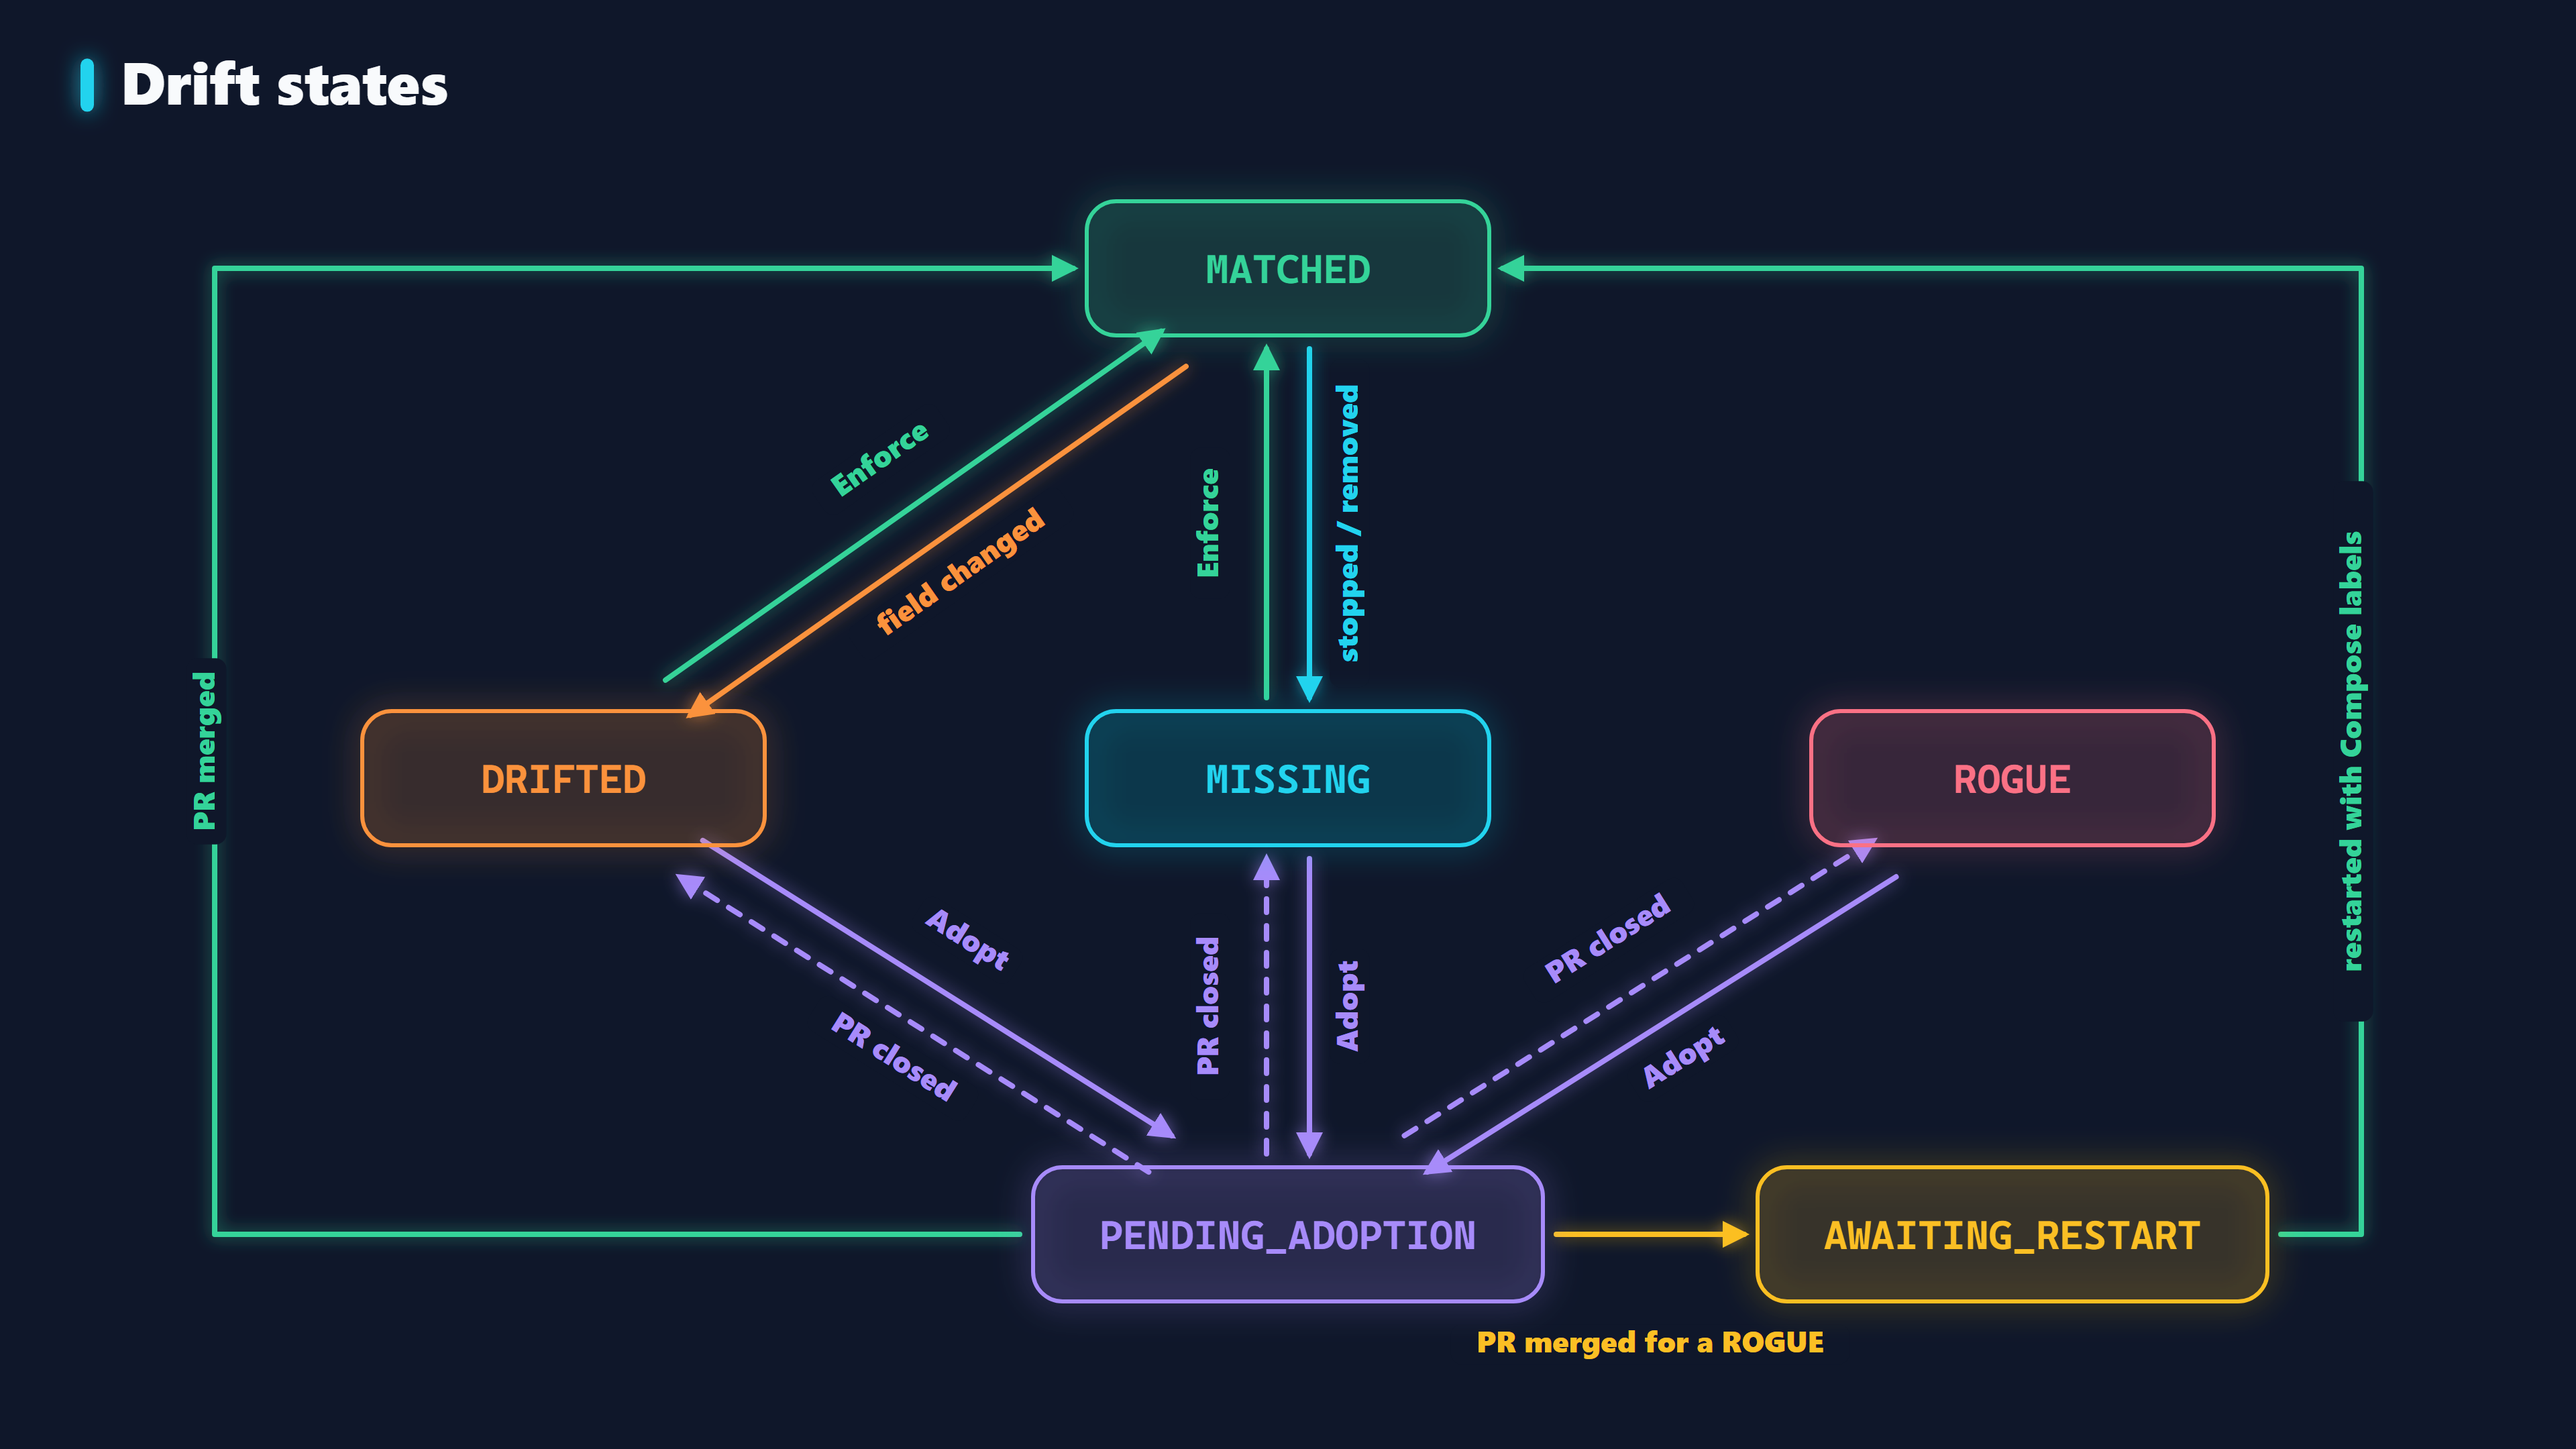
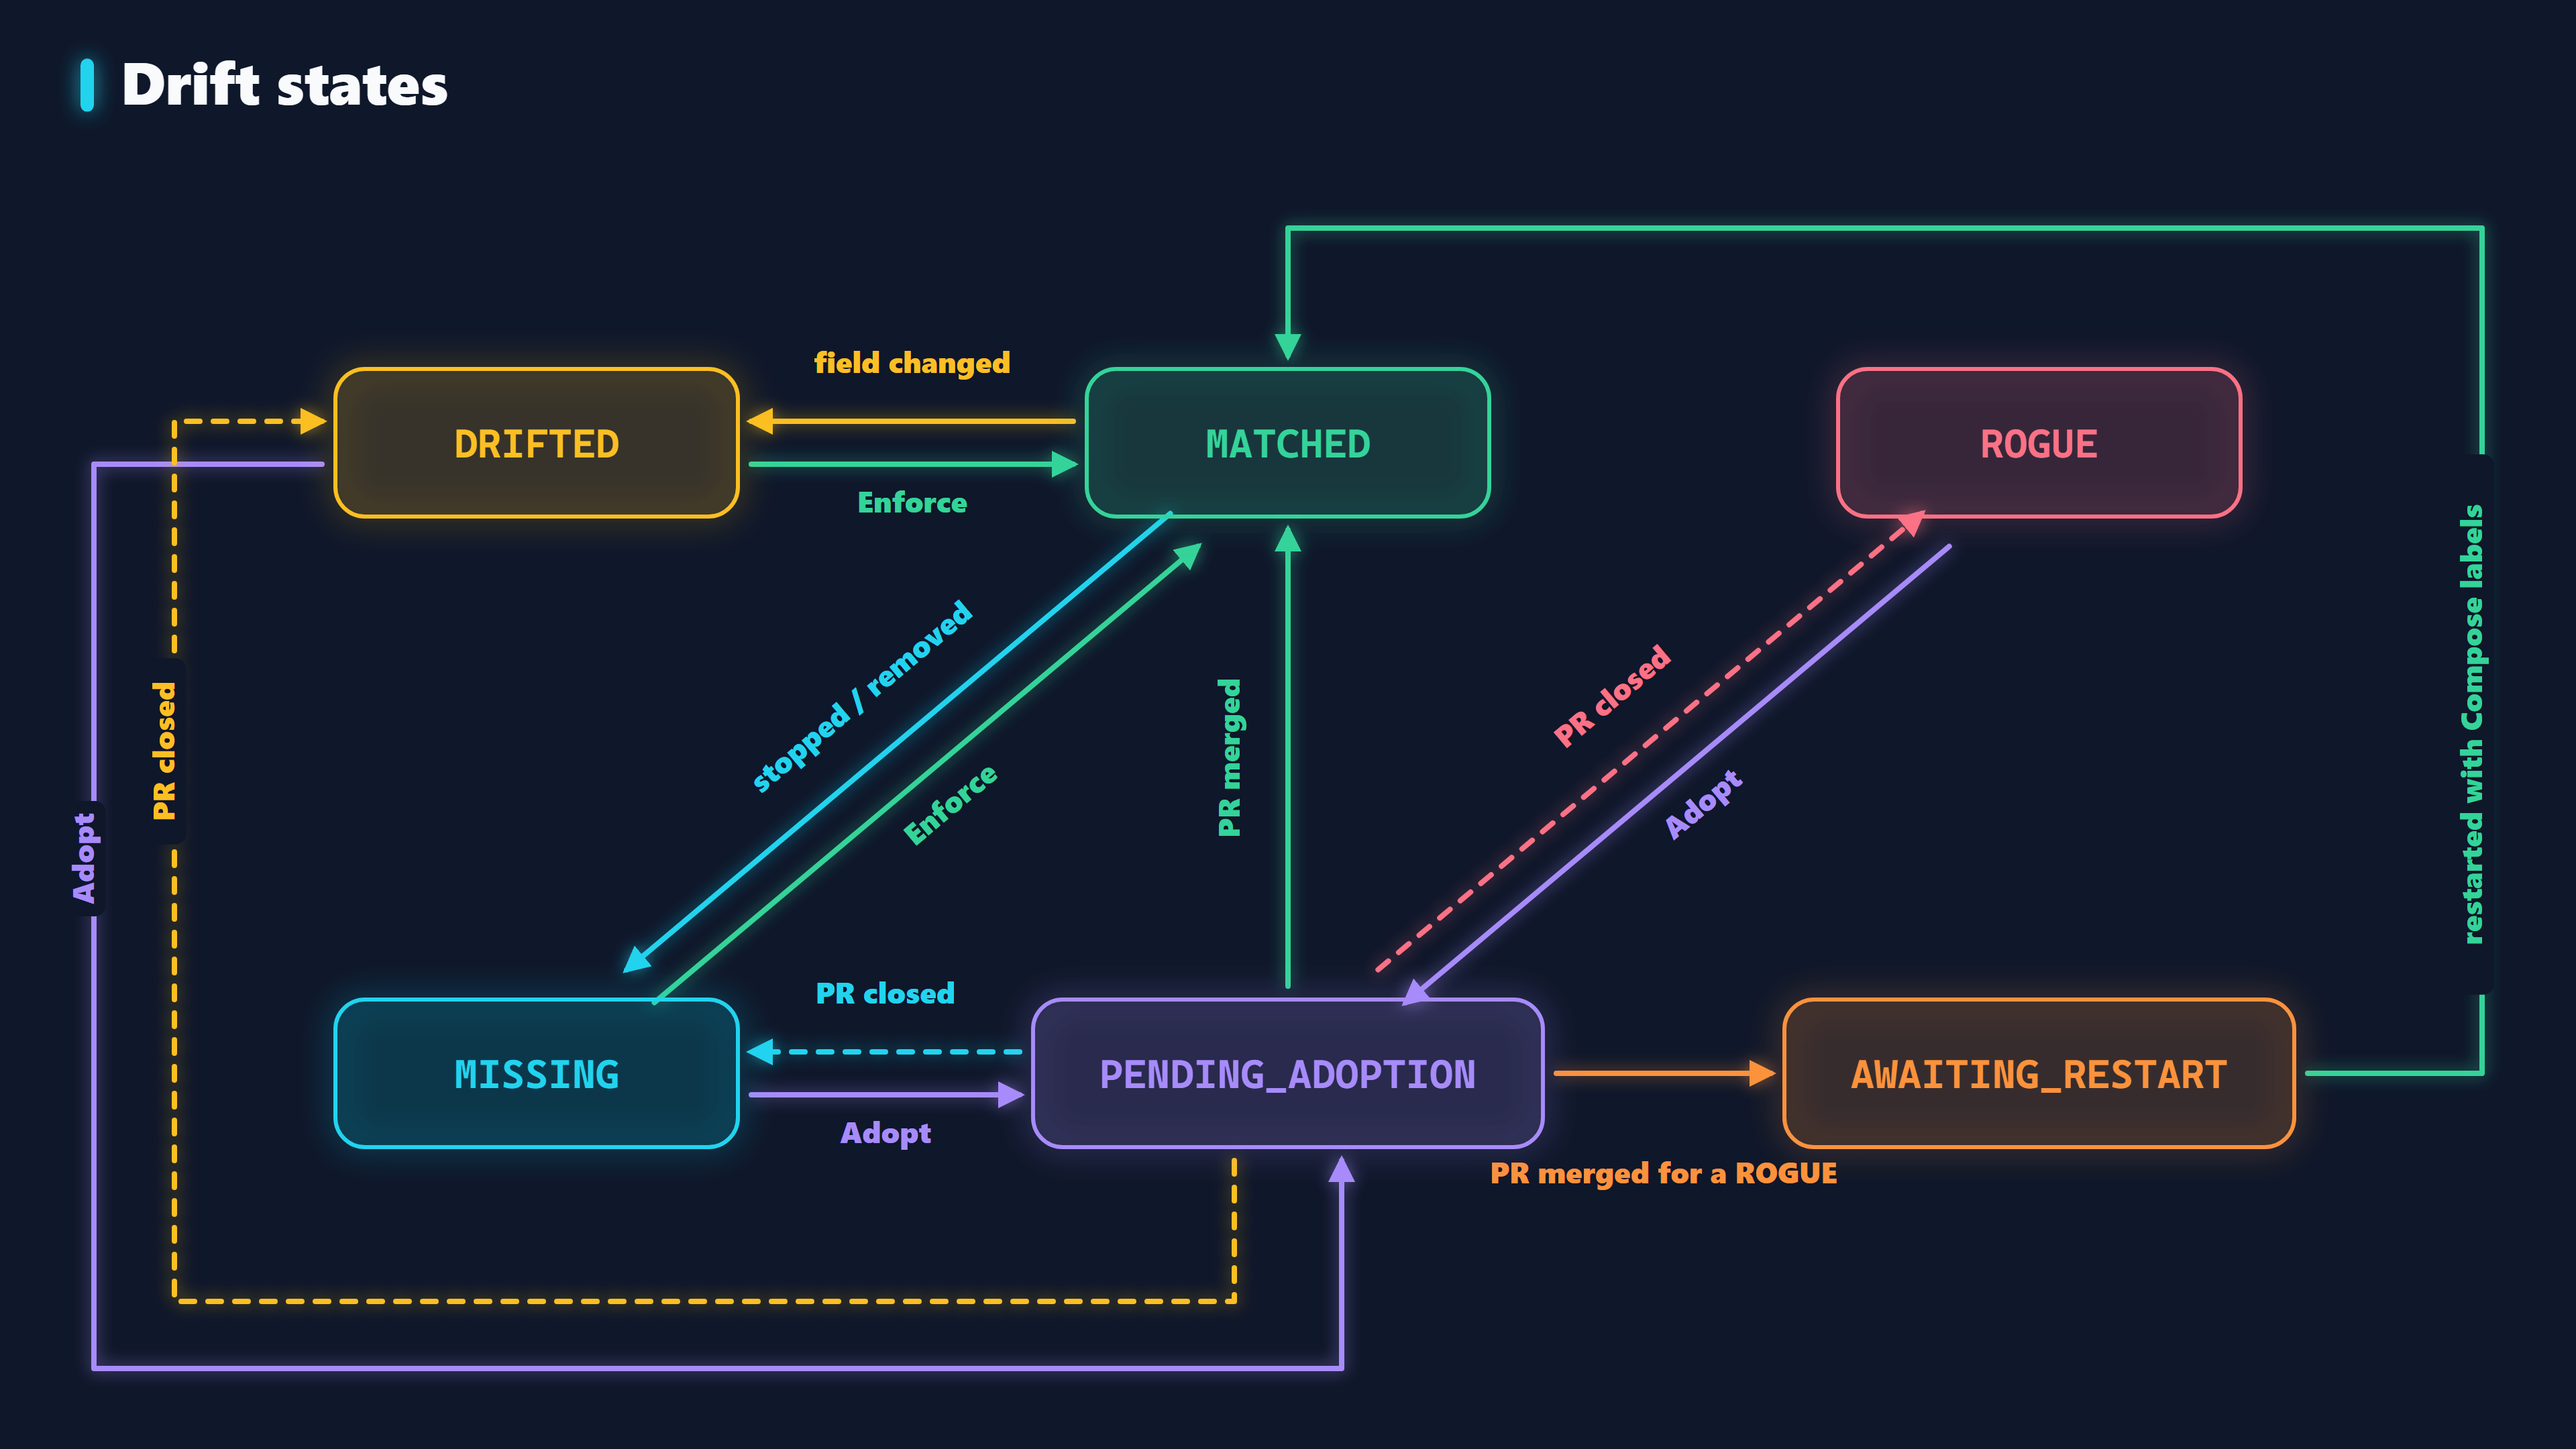
feat(images): arrange the drift state machine in two rows
DRIFTED, MATCHED and ROGUE on top; MISSING, PENDING_ADOPTION and
AWAITING_RESTART below, following the user's sketch. The DRIFTED <-> buffer
transitions loop around the left edge and the restart path loops over the
top. DRIFTED is now amber and AWAITING_RESTART orange, matching the sketch.

Changed region(s): [[0.0312, 0.1241, 0.9688, 0.9616], [0.9062, 0.3412, 0.9688, 0.6514], [0.625, 0.6204, 0.6562, 0.6514]]

diff --git a/images/src/state_machine.py b/images/src/state_machine.py
@@ -1,8 +1,9 @@
 # ruff: noqa: E501
 """Drift state machine: the six states and the events or actions that move a container between them.
 
-Sized for a projector (1920x1080). Every arrow takes the colour of the state it arrives in;
-labels run along their arrows.
+Sized for a projector (1920x1080). Two rows: DRIFTED, MATCHED, ROGUE on top and MISSING,
+PENDING_ADOPTION, AWAITING_RESTART below. Every arrow takes the colour of the state it
+arrives in, and its label runs along the arrow.
 """
 
 import math
@@ -13,18 +14,20 @@ W, H = 1920, 1080
 c = Canvas(W, H, "DriftWarden drift states and the transitions between them")
 c.title("Drift states")
 
-NH = 100
+NH = 110
+TOP, BOTTOM = 330, 800
 pos = {
-    "MATCHED": (960, 200),
-    "DRIFTED": (420, 580),
-    "MISSING": (960, 580),
-    "ROGUE": (1500, 580),
-    "PENDING_ADOPTION": (960, 920),
-    "AWAITING_RESTART": (1500, 920),
+    "DRIFTED": (400, TOP),
+    "MATCHED": (960, TOP),
+    "ROGUE": (1520, TOP),
+    "MISSING": (400, BOTTOM),
+    "PENDING_ADOPTION": (960, BOTTOM),
+    "AWAITING_RESTART": (1520, BOTTOM),
 }
 width = {n: (380 if len(n) > 8 else 300) for n in pos}
 col = {n: color_of(STATUS_ACCENT[n]) for n in pos}
 MINT = col["MATCHED"]
+VIOLET = col["PENDING_ADOPTION"]
 
 
 def trim(a, b, perp=0):
@@ -46,7 +49,7 @@ def trim(a, b, perp=0):
 
 
 def edge(a, b, text, color, perp=0, dash=None, gap=36):
-    """Arrow a -> b with its label running along the line, pushed `gap` px to the side."""
+    """Arrow a -> b with its label running along the line, pushed `gap` px to the side of `perp`."""
     s, e, (nx, ny), (ux, uy) = trim(a, b, perp)
     c.arrow([s, e], stroke=color, sw=4, dash=dash)
     side = 1 if perp >= 0 else -1
@@ -59,25 +62,40 @@ def edge(a, b, text, color, perp=0, dash=None, gap=36):
     c.label(mx, my, text, color, angle=angle)
 
 
-# leaving MATCHED (host event) and coming back (Enforce)
-edge("MATCHED", "DRIFTED", "field changed", col["DRIFTED"], perp=-16)
-edge("DRIFTED", "MATCHED", "Enforce", MINT, perp=-16)
-edge("MATCHED", "MISSING", "stopped / removed", col["MISSING"], perp=-16)
-edge("MISSING", "MATCHED", "Enforce", MINT, perp=-16)
-
-# Adopt into the buffer, and back out when the pull request does not land
-for n in ("DRIFTED", "MISSING", "ROGUE"):
-    edge(n, "PENDING_ADOPTION", "Adopt", col["PENDING_ADOPTION"], perp=-16)
-    edge("PENDING_ADOPTION", n, "PR closed", col["PENDING_ADOPTION"], perp=-16, dash="10 10")
-
-# PR merged: straight back to MATCHED (left loop), or a restart first for an adopted ROGUE
-c.path("M760,920 L160,920 L160,200 L800,200", stroke=MINT, sw=4)
-c.label(160, 560, "PR merged", "mint", angle=-90)
+# top row: MATCHED <-> DRIFTED
+edge("MATCHED", "DRIFTED", "field changed", col["DRIFTED"], perp=16)
+edge("DRIFTED", "MATCHED", "Enforce", MINT, perp=16)
+# MATCHED <-> MISSING, diagonal
+edge("MATCHED", "MISSING", "stopped / removed", col["MISSING"], perp=16)
+edge("MISSING", "MATCHED", "Enforce", MINT, perp=16)
+# bottom row: MISSING <-> PENDING_ADOPTION
+edge("PENDING_ADOPTION", "MISSING", "PR closed", col["MISSING"], perp=16, dash="10 10")
+edge("MISSING", "PENDING_ADOPTION", "Adopt", VIOLET, perp=16)
+# ROGUE <-> PENDING_ADOPTION, diagonal
+edge("PENDING_ADOPTION", "ROGUE", "PR closed", col["ROGUE"], perp=-16, dash="10 10")
+edge("ROGUE", "PENDING_ADOPTION", "Adopt", VIOLET, perp=-16)
+# PENDING_ADOPTION -> MATCHED and -> AWAITING_RESTART
+edge("PENDING_ADOPTION", "MATCHED", "PR merged", MINT, gap=-36)
 edge(
-    "PENDING_ADOPTION", "AWAITING_RESTART", "PR merged for a ROGUE", col["AWAITING_RESTART"], gap=88
+    "PENDING_ADOPTION", "AWAITING_RESTART", "PR merged for a ROGUE", col["AWAITING_RESTART"], gap=82
 )
-c.path("M1700,920 L1760,920 L1760,200 L1120,200", stroke=MINT, sw=4)
-c.label(1760, 560, "restarted with Compose labels", "mint", angle=-90)
+
+# DRIFTED <-> PENDING_ADOPTION, looped around the left: Adopt outside, PR closed inside
+c.path(
+    f"M240,{TOP + 16} L70,{TOP + 16} L70,1020 L1000,1020 L1000,{BOTTOM + 65}", stroke=VIOLET, sw=4
+)
+c.label(70, 640, "Adopt", "violet", angle=-90)
+c.path(
+    f"M920,{BOTTOM + 65} L920,970 L130,970 L130,{TOP - 16} L240,{TOP - 16}",
+    stroke=col["DRIFTED"],
+    sw=4,
+    dash="10 10",
+)
+c.label(130, 560, "PR closed", "amber", angle=-90)
+
+# AWAITING_RESTART -> MATCHED, looped over the top
+c.path(f"M1720,{BOTTOM} L1850,{BOTTOM} L1850,170 L960,170 L960,{TOP - 65}", stroke=MINT, sw=4)
+c.label(1850, 540, "restarted with Compose labels", "mint", angle=-90)
 
 for n, (x, y) in pos.items():
     c.node(x, y, width[n], NH, n, STATUS_ACCENT[n], size=30, mono=True)

diff --git a/images/src/draw.py b/images/src/draw.py
@@ -45,11 +45,11 @@ ACCENT = {
 # One colour per drift state, matching the dashboard's status pills.
 STATUS_ACCENT = {
     "MATCHED": "mint",
-    "DRIFTED": "orange",
+    "DRIFTED": "amber",
     "MISSING": "cyan",
     "ROGUE": "rose",
     "PENDING_ADOPTION": "violet",
-    "AWAITING_RESTART": "amber",
+    "AWAITING_RESTART": "orange",
 }
 
 
